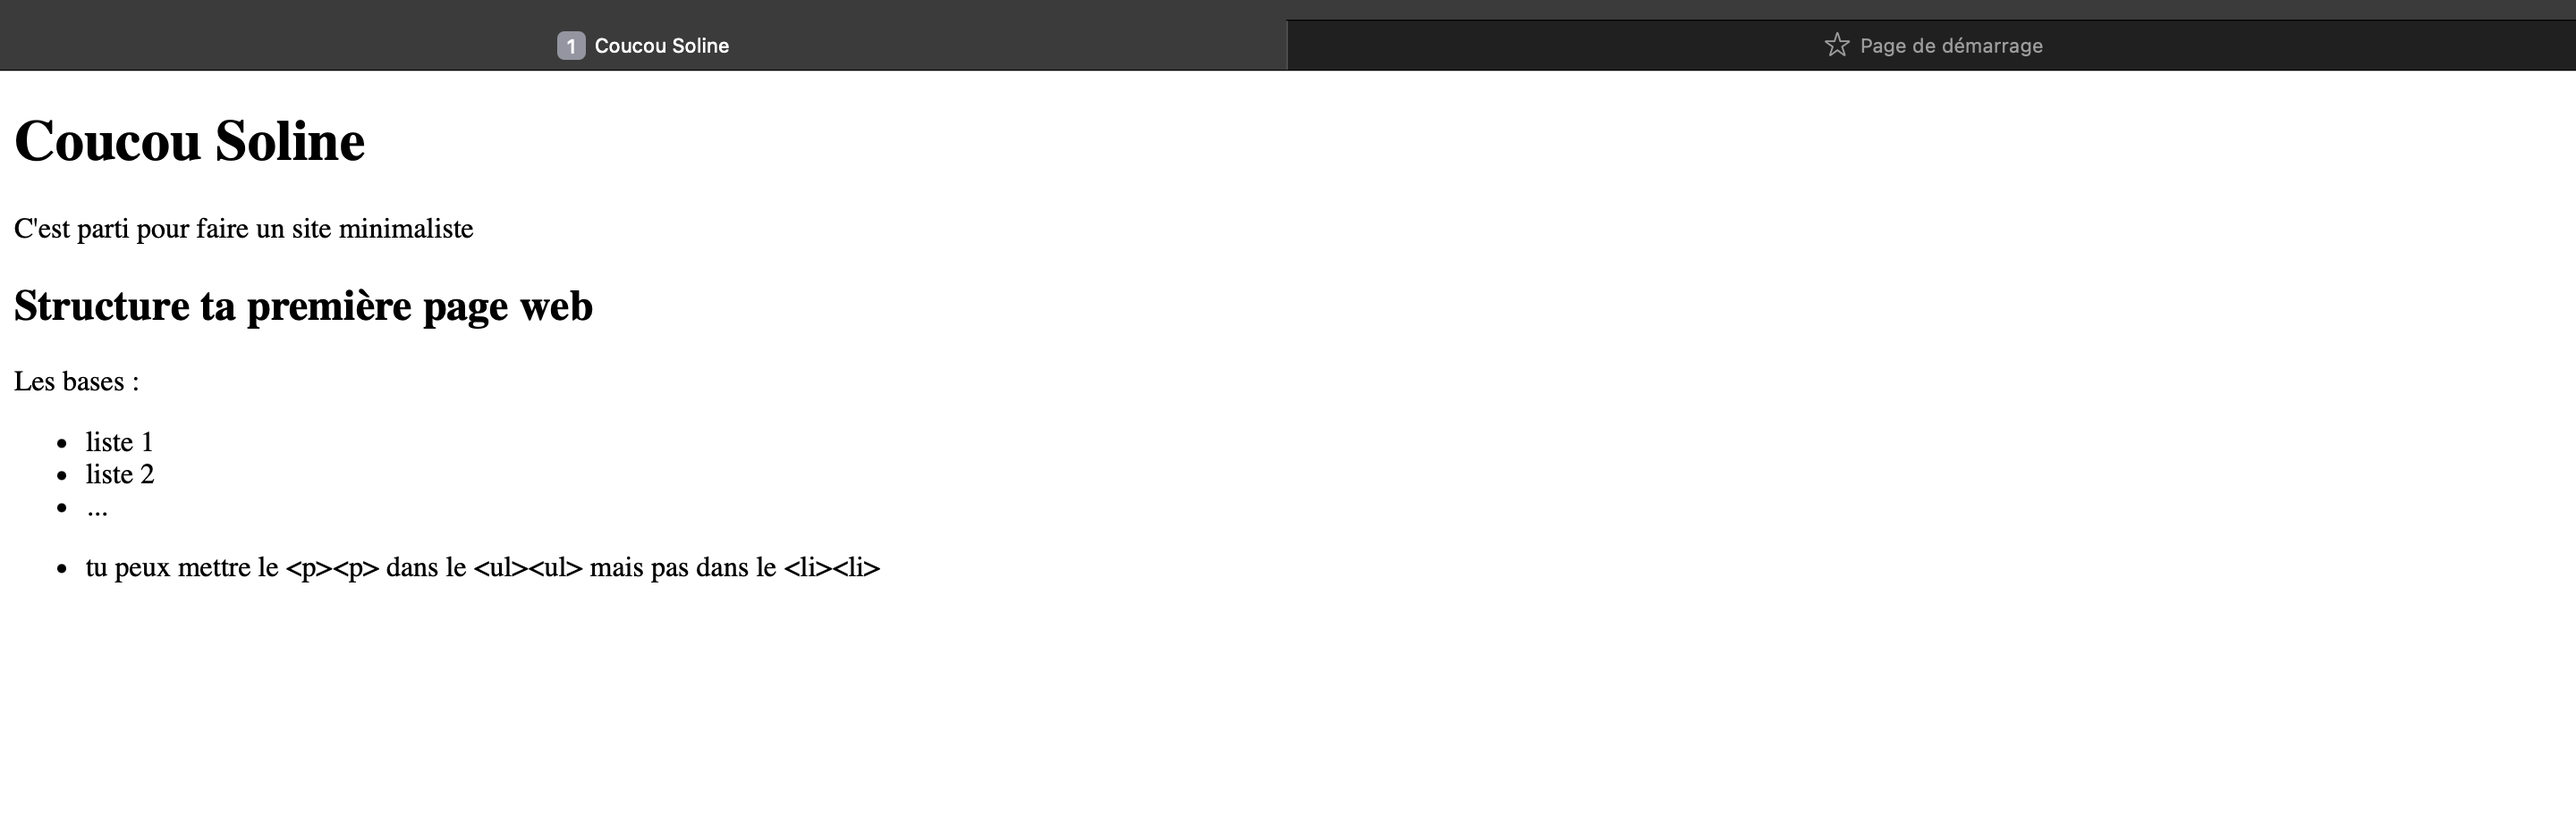
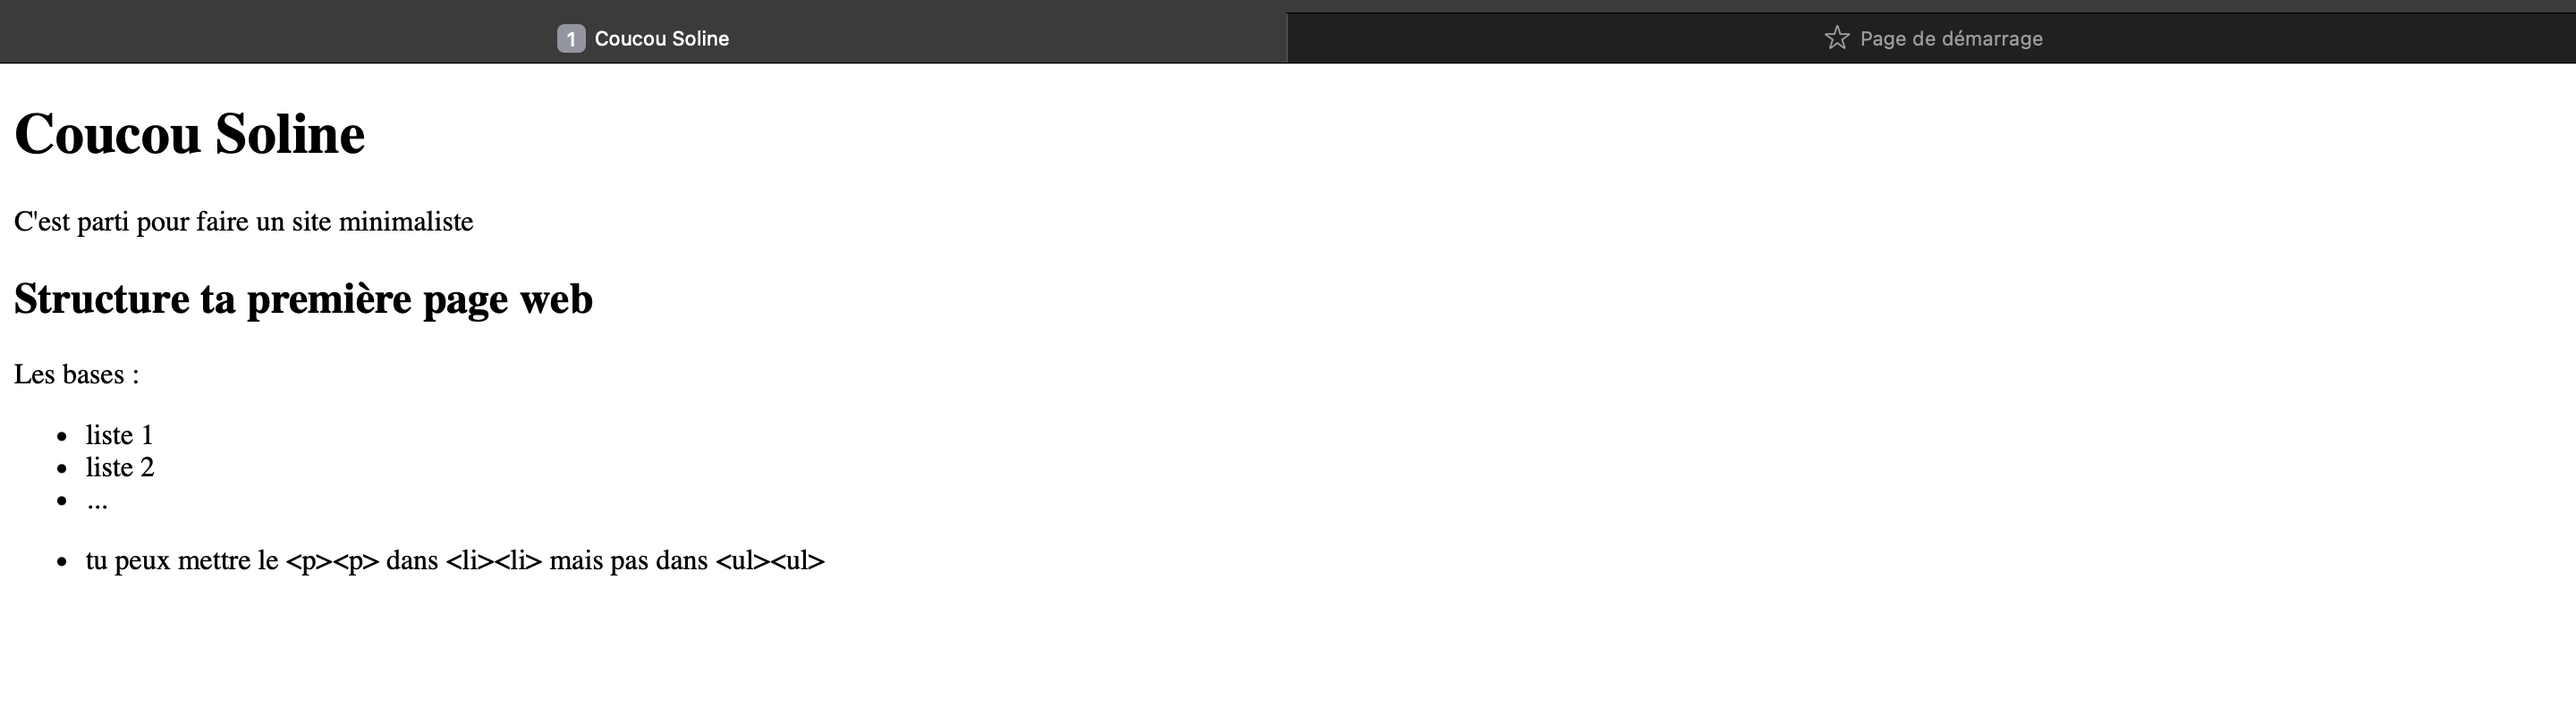
fin partie 1 mon 1

diff --git a/Lola-Bourdon/mon/temps-1.1/index.md b/Lola-Bourdon/mon/temps-1.1/index.md
@@ -18,7 +18,7 @@ Mes objectifs pour ce premier MON sont de découvirir les bases des langages HTM
 
 ##  Méthodologie 
 
-Pour me former aux langages html et css, je suis partie de zéro. J'ai suivi, comme beaucoup, les cours de https://internetingishard.netlify.app . 
+Pour me former aux langages html et css, je suis partie de zéro. J'ai suivi, comme beaucoup, les cours de https://internetingishard.netlify.app. 
 Il est temps de partager mes nouvelles compétences avec Soline pour qu'elle soit capabble de faire son site web basique, sans trop approfondir ses connaissances.
 
 ## 1. Prérequis
@@ -28,57 +28,80 @@ Pour commencer, Soline aura besoin d'utiliser sur son ordinateur un éditeur de 
 Sur VScode, elle devra suivre les étapes suivantes : 
 1. Dans l’explorateur de fichier, créer un dossier : "Mon-premier-site-vsc »
 3. Ouvrir l'application VsCode et choisir Fichier > ouvrir > fichier puis naviguer jusqu'au dossier "Mon-premier-site-vsc".
-4. Accepter de faire confiances aux auteurs, puisque c'est elle
-5. Installer l’extension live folder : extension > live folder > installer, qui lui permettra de visualiser son super site web basique
-6. Créer un nouveau fichier html "premier-essai.html" un icone <> devrait apparaitre devant le nom du dossier 
+4. Installer l’extension live folder : extension > live folder > installer, qui lui permettra de visualiser son super site web basique
+5. Créer un nouveau fichier html "premier-essai.html", un icone <> devrait apparaitre devant le nom du dossier 
 
 ## 2. Les bases 
 Maintenant que Soline est sur la fenêtre de son fichier html, voici quelques bases :
 
-On commence le fichier html avec &lt;html&gt;&lt;/html&gt;.
-Maintenant l’intégralité de la page Web doit être enveloppée dans des balises &lt;html&gt;&lt;/html&gt;. 
-&lt;html&gt;ouvre le code et &lt;/html&gt; le ferme.
+Un fichier html se commence avec <strong> &lt;html&gt;&lt;/html&gt;. </strong>
+Maintenant l’intégralité de la page Web doit être enveloppée dans  &lt;html&gt; tout le code &lt;/html&gt;. 
 
 
-
-Entres les &lt;html&gt;&lt;/html&gt; :
+Entres les <strong> &lt;html&gt;&lt;/html&gt;. </strong>:
 - Il ne faut jamais mélanger les imbrications 
 - Placer &lt;head&gt;&lt;/head&gt; qui fait référence aux titres, langages CSS, et contenu qui ne seront pas visible directement sur le site 
-- On pourra ecrire le titre de la page entre &lt;title&gt;&lt;/title&gt; mais il n'apparaitra pas directement sur le site.
-- Maintenant que le head est fermée mais pas le &lt;/html&gt;, on utilisera &lt;body&gt;&lt;/body&gt; qui encadre le contenu visible, rien ne s'affiche  sur la page web lorsqu'il est vide 
+-  Ecrire le titre de la page entre &lt;title&gt;&lt;/title&gt; même si il n'apparaitra pas directement sur le site.
 
-Dans &lt;body&gt;&lt;/body&gt; :
+Maintenant que le &lt;head&gt; est fermée mais pas le &lt;/html&gt;, placer &lt;body&gt;&lt;/body&gt; qui encadre le contenu visible, rien ne s'affiche  sur la page web lorsqu'il est vide 
+
+Dans <strong>&lt;body&gt;&lt;/body&gt;</strong> :
 - &lt;p&gt;&lt;p&gt; encadre les paragraphes,  
 - &lt;h1&gt;&lt;/h1&gt;à &lt;h6&gt;&lt;/h6&gt; sont pour les titres du plus au moins gros 
-- &lt;ul&gt;&lt;ul&gt;et &lt;li&gt;&lt;/li&gt; servent pour les listes simple et sont indissociables
+- &lt;ul&gt;&lt;/ul&gt;et &lt;li&gt;&lt;/li&gt; servent pour les listes simple et sont indissociables
 - On peut mettre le &lt;p&gt;&lt;p&gt; dans le &lt;li&gt;&lt;li&gt; mais pas dans le &lt;ul&gt;&lt;ul&gt;
 - Pour faire apparaitre les crochets sur la page il suffira de les encadrer par &lt ; &gt ; sans espace entre le t et le point virgule
 
-Voyons ce que ces premières informations drendent sur un site web basique:
+Voyons ce que ces premières informations rendent sur un site web basique  pour cela, il suffit de faire clique droit sur le nom du fichier html et de cliquer sur <em> Open with Live Server </em>:
 
 <img src="code1.png">
 <img src="screen1.png">
 
-Il existe également des liste ordonnes qui permettent de numéroter la liste. Cela fonctionne de la même manière mais on remplacera le &lt;ul&gt; par &lt;ol&gt;&lt;ol&gt;.
-On utilisra &lt;ol&gt;&lt;ol&gt; pour les recettes, les instructions et même les tables.
-On utilisera &lt;ul&gt; pour les inventaires d'articles, les caractéristiques des produits, les comparaisons pour/contre et les menus de navigation.
+Il existe également des liste ordonnée qui permettent de numéroter la liste. Cela fonctionne de la même manière mais on remplacera le &lt;ul&gt;&lt;/ul&gt;par &lt;ol&gt;&lt;ol&gt;
 
-### Ecrire en Italique ou en gras
+### Ecrire en Italique, gras ou souligné
 
-Pour écrire en <em>italique</em>, il faut utiliser  la commande &lt;em&gt; <em>  texte </em> &lt;/em&gt; qui n'affecte qu'une partie du texte de la ligne, à la différence de &lt;p&gt;&lt;p&gt;  qui est un élément de niveau bloc.
+Pour écrire en <em>italique</em> :
+- Utiliser  la commande &lt;em&gt; <em>  texte </em> &lt;/em&gt; 
 
-De la même manière, Pour écrire en <strong>gras</strong>, on utilisera &lt;strong&gt; <strong> texte </strong> &lt;/strong&gt;
+Pour écrire en <strong>gras</strong> :
+- Utiliser la commande &lt;strong&gt; <strong> texte </strong> &lt;/strong&gt;
+
+Pour écrire en <u>Souligné : </u>
+- Utiliser la commande &lt;u&gt; <u> texte </u>&lt;/u&gt; 
 
 On peux également imbriquer un élément gras dans un italique ou vice versa avec :</strong></em> &lt;em&gt;&lt;strong&gt;<em><strong> texte  </strong></em> &lt;/strong&gt;&lt;/em&gt;
-      
+
+Avec ces nouvelles informations, voyons ce que cela peut donner sur donner sur notre super site web :
+
+
+<img src="screen2.png">
+<img src="code2.png">
+<img src="code3.png">
  
  
- 
-      <h3> Les élements vides </h3>
-Les sauts de ligne et les règles horizontales sont les éléments vides les plus courants. Pour indiquer au navigateur un saut de ligne définitif, il faut utiliser un seul élément &lt;/br&gt; 
-C'est utilisé pour les signatures, non pas pour sauter beaucoup de ligne 
+ ### Les Eléments Vides 
+Les sauts de ligne et les lignes horizontales sont les éléments vides les plus courants. 
+Pour indiquer un <u>saut de ligne définitif,</u> utiliser un seul élément <strong> &lt;/br&gt; </strong>
+Pour les lignes horizontales, utiliser <strong>&lt;hr/&gt;</strong>.
 
-Pour les lignes horizontales, on utiliserz simplement &lt;/hr&gt; souvent utile pour une rupture thématique.
+###  Images
 
-</hr>
+Pour finir la formation simple et rapide de Soline, parlons de comment insérer une une image sur notre super site web basique.
 
+Pour cela, il faudra ajouter au dossier <em>"Mon-premier-site-vsc"</em>, les images que l'on utiliser, de la manière suivante :
+
+<img src="screen3.png"> 
+
+Partons du principe que soline n'a que des images.png. Il faut utiliser la commande <strong>&lt;img src='/code1.png'/&gt; </strong>
+
+On pourra ajuster la taille avec : <strong> &lt;img src='/screen3.png'  width='200'/&gt; </strong>
+
+Le fin du site final est le suivant :
+
+<img src="dernierscreen.png">
+<img src="derniercode.png">
+
+## 3. Amélioration du site 
+
+La partie html du site est terminée mais l'esthétique n'est pas forcément la meilleure. Pour l'améliorer j'ai fait mes premiers pas avec CSS en me basant toujours sur les cours de https://internetingishard.netlify.app. 
